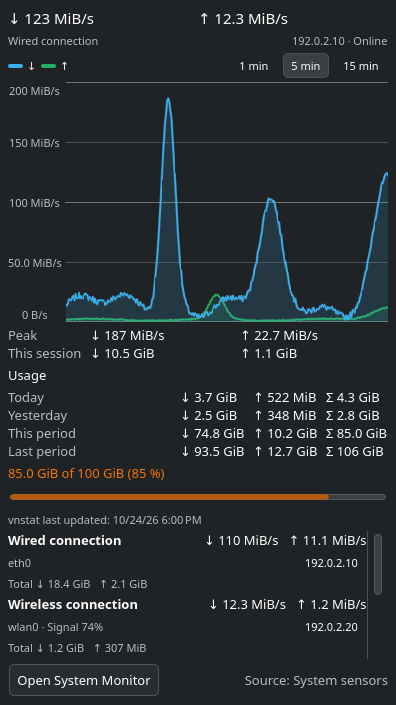
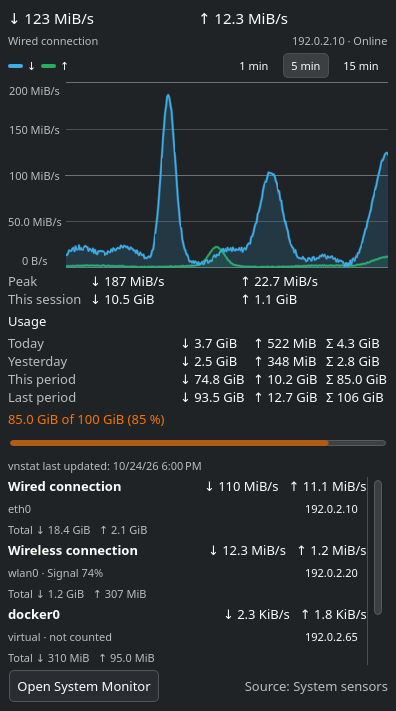
Render the screenshots at twice the size for the store and add the settings page

diff --git a/tools/screenshots/Screenshots.qml b/tools/screenshots/Screenshots.qml
@@ -9,7 +9,8 @@
 // The panel views: two rows at 44 px, both values side by side on one line,
 // a vertical panel 48 px wide, the colors by speed ("thresholds") and the
 // mini chart behind the text, each on the background color of the theme.
-// The popup has its preferred size. The text uses the first available of the
+// The popup has its preferred size, the settings page "Appearance" a fixed
+// width, with the colors by speed chosen so the level editor is active. The text uses the first available of the
 // fonts in demo.mjs; the colors come from the color scheme the calling script
 // sets up (a stock Breeze scheme).
 //
@@ -27,7 +28,9 @@ import org.kde.kirigami as Kirigami
 import org.kde.quickcharts as Charts
 import "../../package/contents/ui/compact"
 import "../../package/contents/ui/full"
+import "../../package/contents/ui/config"
 import "../../package/contents/code/format.mjs" as Format
+import "../../package/contents/code/appearance.mjs" as Appearance
 import "demo.mjs" as Demo
 
 QQC2.ApplicationWindow {
@@ -51,10 +54,10 @@ QQC2.ApplicationWindow {
     }
     property int next: 0
     property bool done: false
-    readonly property var shots: [rowsShot, singleShot, verticalShot, colorsShot, sparklineShot, popupShot]
+    readonly property var shots: [rowsShot, singleShot, verticalShot, colorsShot, sparklineShot, popupShot, settingsShot]
 
-    width: 1000
-    height: 860
+    width: 1680
+    height: 900
     visible: true
     title: "Netspeeder screenshots"
     color: Kirigami.Theme.backgroundColor
@@ -265,6 +268,37 @@ QQC2.ApplicationWindow {
             graphMinutes: 5
             width: Layout.preferredWidth
             height: Layout.preferredHeight
+        }
+    }
+
+    // The settings page with the defaults of main.xml, except the colors by
+    // speed; Plasma fills the cfg_ properties the same way.
+    Rectangle {
+        id: settingsShot
+
+        x: 860
+        y: 20
+        width: 640
+        height: settingsPage.implicitHeight
+        color: Kirigami.Theme.backgroundColor
+
+        ConfigAppearance {
+            id: settingsPage
+
+            anchors.fill: parent
+            cfg_fontFamily: ""
+            cfg_fontBold: false
+            cfg_fontScale: 100
+            cfg_iconStyle: "arrows"
+            cfg_customDownIcon: "↓"
+            cfg_customUpIcon: "↑"
+            cfg_colorMode: "thresholds"
+            cfg_downloadColor: ""
+            cfg_uploadColor: ""
+            cfg_colorThresholds: Appearance.serializeThresholds(Appearance.DEFAULT_THRESHOLDS)
+            cfg_colorUnits: false
+            cfg_fixedWidth: true
+            cfg_sparkline: "off"
         }
     }
 

diff --git a/README.md b/README.md
@@ -68,6 +68,7 @@ scheme with `scripts/screenshots.sh` and live in [`docs/images/`](docs/images/);
 | ![Values colored by speed](docs/images/panel-colors.png) | `panel-colors.png`: colors by speed |
 | ![Sparkline behind the values](docs/images/panel-sparkline.png) | `panel-sparkline.png`: the sparkline behind the values |
 | ![The popup](docs/images/popup.png) | `popup.png`: the popup with graph, interfaces and usage |
+| ![The settings page Appearance](docs/images/settings-appearance.png) | `settings-appearance.png`: the settings page Appearance with colors by speed |
 
 ## Features
 

diff --git a/docs/store.md b/docs/store.md
@@ -136,7 +136,8 @@ Breeze Dark color scheme.
 4. `panel-colors.png`: colors by speed
 5. `popup.png`: the popup with graph, interfaces and usage
 
-`panel-sparkline.png` (the sparkline behind the values) is used in the README
+`panel-sparkline.png` (the sparkline behind the values) and
+`settings-appearance.png` (the settings page Appearance) are used in the README
 only.
 
 The project logo for the store page is `logo.png` (512 × 512), rendered from
